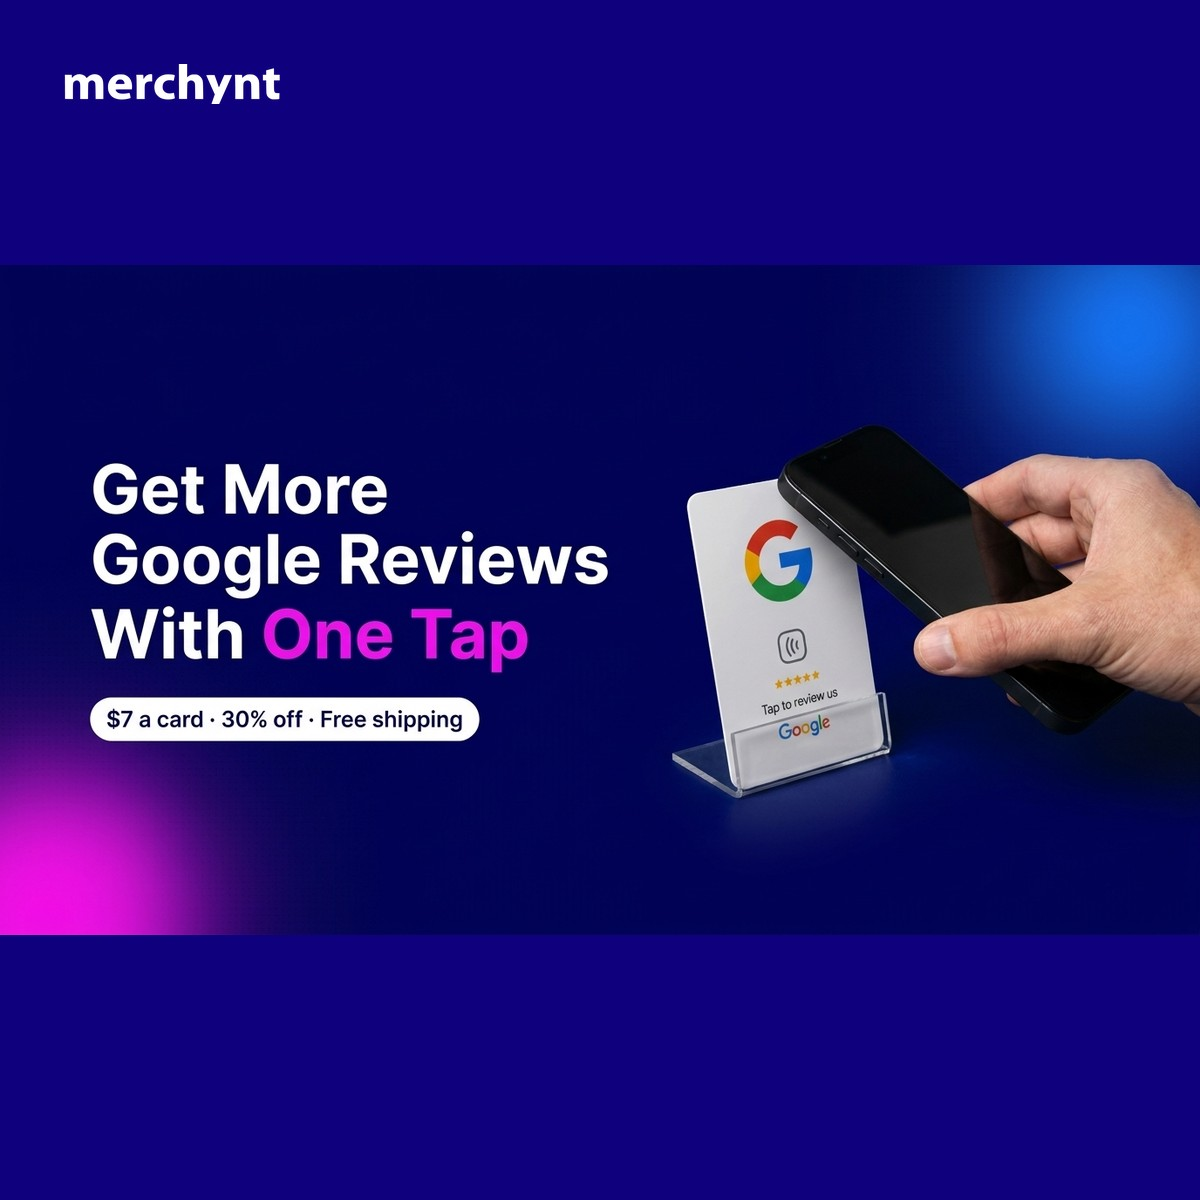
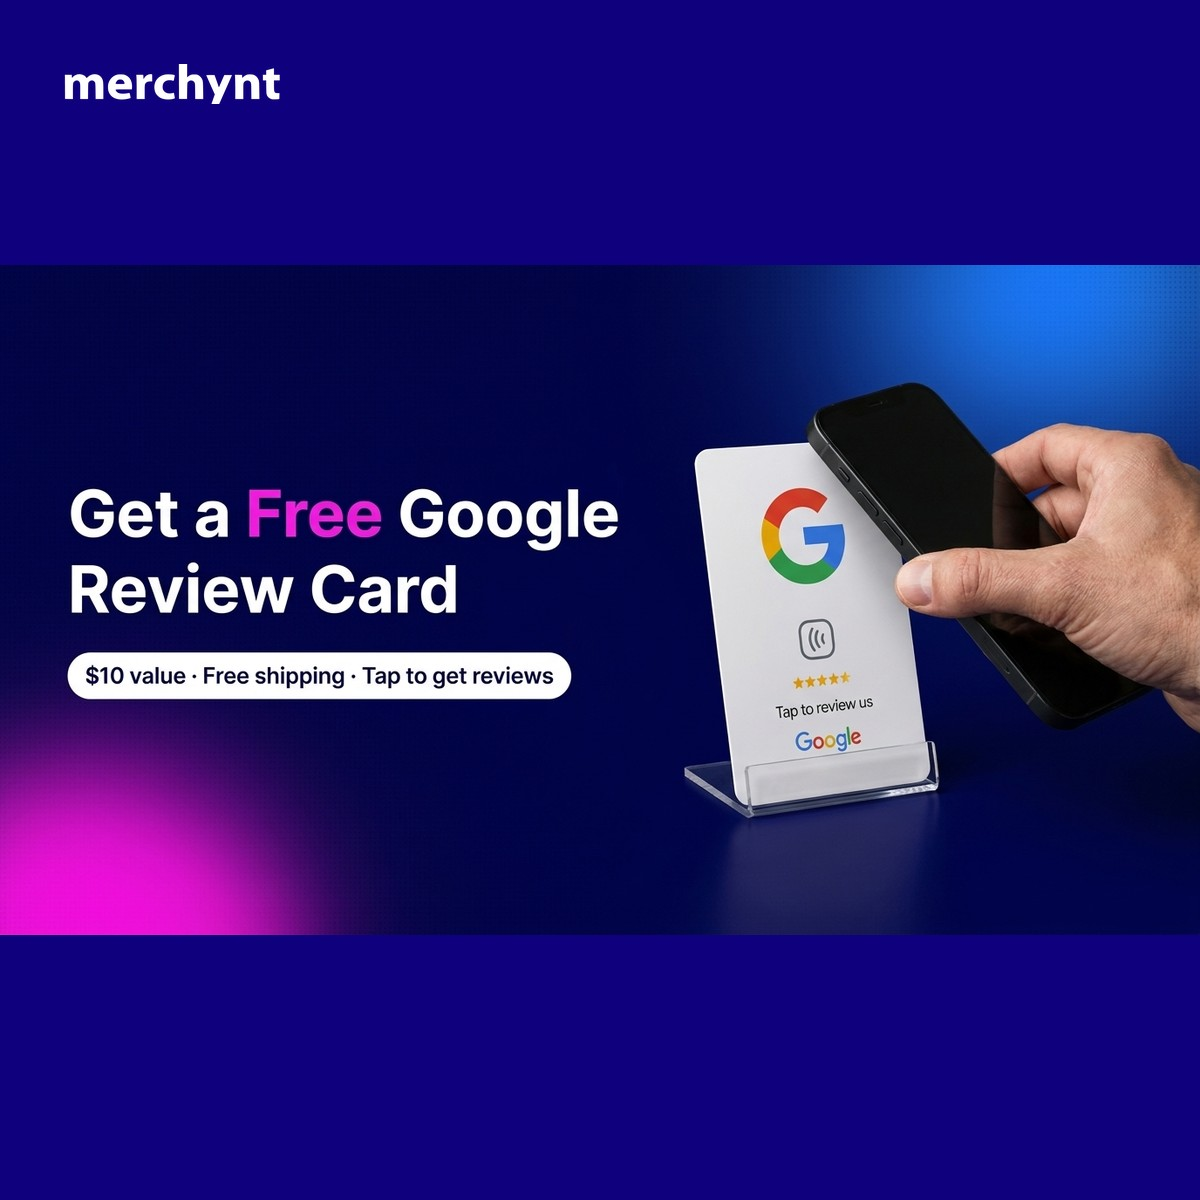
Rework Open Graph images and share tags for the free NFC card offer

Changed region(s): [[0.555, 0.2158, 1.0, 0.8017], [0.0308, 0.37, 0.5242, 0.8017], [0.925, 0.6475, 1.0, 0.7092]]

diff --git a/index.html b/index.html
@@ -3,26 +3,26 @@
 <head>
   <meta charset="UTF-8">
   <meta name="viewport" content="width=device-width, initial-scale=1.0">
-  <title>NFC Google Review Cards | $7 Tap-to-Review Card | Merchynt</title>
-  <meta name="description" content="Get more Google reviews with a pre-programmed NFC card. Customers tap their phone and your review page opens. 30% off, free US shipping, no app or monthly fee.">
+  <title>Free NFC Google Review Card | Tap-to-Review Card | Merchynt</title>
+  <meta name="description" content="Get a free NFC Google review card ($10 value) with free US shipping. Customers tap their phone and your review page opens. No app, no monthly fee.">
   <meta name="robots" content="noindex, nofollow">
   <link rel="canonical" href="https://merchynt-review-cards.vercel.app/">
   <meta property="og:type" content="website">
   <meta property="og:site_name" content="Merchynt">
   <meta property="og:url" content="https://merchynt-review-cards.vercel.app/">
-  <meta property="og:title" content="Get More Google Reviews With One Tap">
-  <meta property="og:description" content="A pre-programmed NFC review card for your counter. $7 a card with 30% off, free US shipping, ready to use the day it arrives.">
+  <meta property="og:title" content="Get a Free Google Review Card">
+  <meta property="og:description" content="A pre-programmed NFC review card for your counter, free ($10 value) with free US shipping. Customers tap their phone and your Google review page opens.">
   <meta property="og:image" content="https://merchynt-review-cards.vercel.app/assets/og-image.jpg">
   <meta property="og:image:secure_url" content="https://merchynt-review-cards.vercel.app/assets/og-image.jpg">
   <meta property="og:image:type" content="image/jpeg">
   <meta property="og:image:width" content="1200">
   <meta property="og:image:height" content="630">
-  <meta property="og:image:alt" content="Get More Google Reviews With One Tap. A customer taps a phone on a Google review NFC card. $7 a card, 30% off, free shipping.">
+  <meta property="og:image:alt" content="Get a Free Google Review Card. A customer taps a phone on a Google review NFC card. $10 value, free shipping.">
   <meta name="twitter:card" content="summary_large_image">
-  <meta name="twitter:title" content="Get More Google Reviews With One Tap">
-  <meta name="twitter:description" content="A pre-programmed NFC review card for your counter. $7 a card with 30% off, free US shipping, ready to use the day it arrives.">
+  <meta name="twitter:title" content="Get a Free Google Review Card">
+  <meta name="twitter:description" content="A pre-programmed NFC review card for your counter, free ($10 value) with free US shipping. Customers tap their phone and your Google review page opens.">
   <meta name="twitter:image" content="https://merchynt-review-cards.vercel.app/assets/og-image.jpg">
-  <meta name="twitter:image:alt" content="Get More Google Reviews With One Tap. A customer taps a phone on a Google review NFC card.">
+  <meta name="twitter:image:alt" content="Get a Free Google Review Card. A customer taps a phone on a Google review NFC card.">
   <link rel="preconnect" href="https://fonts.googleapis.com">
   <link rel="preconnect" href="https://fonts.gstatic.com" crossorigin>
   <link href="https://fonts.googleapis.com/css2?family=DM+Sans:ital,opsz,wght@0,9..40,300;0,9..40,400;0,9..40,500;0,9..40,600;0,9..40,700;0,9..40,800;1,9..40,400&display=swap" rel="stylesheet">

diff --git a/README.md b/README.md
@@ -15,7 +15,7 @@ Direct-response landing page for Facebook traffic that sells Merchynt's Google r
 | `assets/nfc-card-product.png` | The store's own product image (copied from reviewstore.merchynt.com). Used in the order summary. |
 | `assets/qr-flyer-product.png` | The store's QR flyer image, kept for a future QR variant. Not used on the page. |
 | `assets/merchynt-logo.svg` | Logo. |
-| `assets/og-image.jpg` | Open Graph / social preview, 1200x630 (Gemini 3 Pro Image, reference-matched to the card; logo composited in code). `og-image-square.jpg` is a 1200x1200 variant. Candidates and the white logo PNG live in `assets/og/`. |
+| `assets/og-image.jpg` | Open Graph / social preview, 1200x630, free-card offer (Gemini 3 Pro Image, reference-matched to the card; logo composited in code). `og-image-square.jpg` is the 1200x1200 variant, `og-image-alt.jpg` leads with the One Tap headline instead. Candidates, the retired 30%-off versions and the white logo PNG live in `assets/og/`. |
 | `assets/source/` | Original PNG renders from the image generator. |
 
 ## How the order flow works
